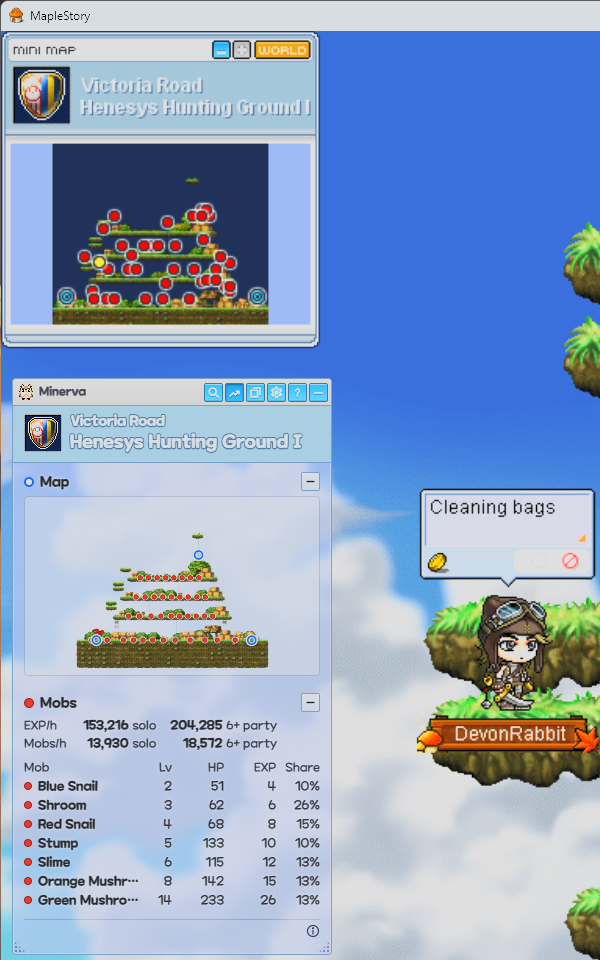
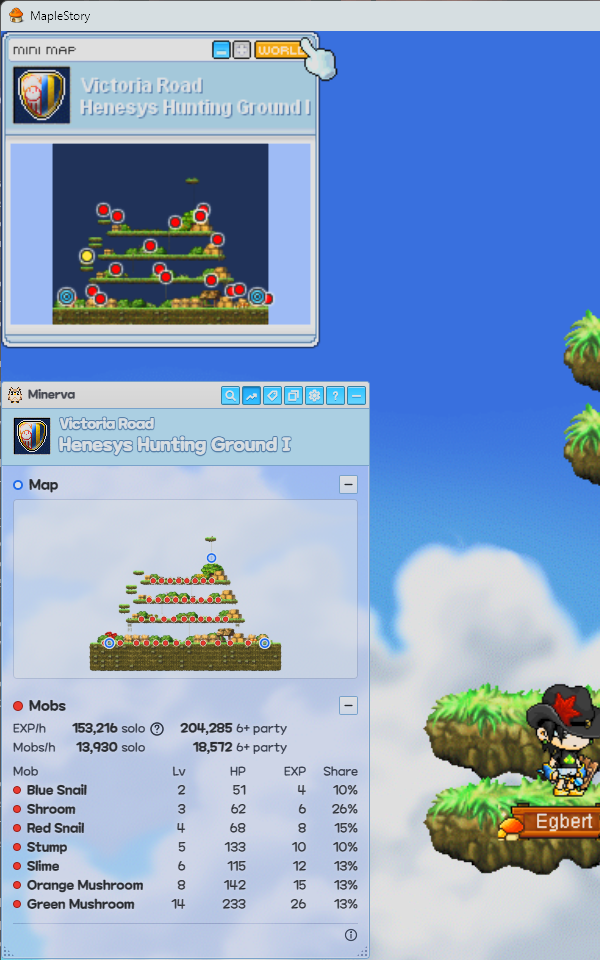
Retake the hero, game window, Mobs and Navigation shots on 0.11.0
The panel shows the Deal Finder's price tag and the solo EXP/h help icon.
The panel sits 11 px left and 3 px lower in the new game window, so the
hero film's landing box moves with it. The Grind Tracker and Item Card
shots stay on 0.10.0 and remain under Retake.

diff --git a/site/index.html b/site/index.html
@@ -101,7 +101,7 @@
               <img
                 id="hero-shot"
                 src="./screenshots/hero.png"
-                alt="MapleStory's minimap on Victoria Road, Henesys Hunting Ground I, and under it the Minerva panel naming the same map beside Henesys's shield, its Map Mark: its picture with every portal ringed and every spawn point dotted red, then the map's EXP and mobs per hour and all seven of its mobs."
+                alt="MapleStory's minimap on Victoria Road, Henesys Hunting Ground I, and under it the Minerva panel naming the same map beside Henesys's shield, its Map Mark: its picture with every portal ringed and every spawn point dotted red, then the map's EXP and mobs per hour, a help icon beside the solo figure, and all seven of its mobs."
                 fetchpriority="high"
               />
               <figcaption>The minimap's title, and the panel under it showing that map.</figcaption>
@@ -150,7 +150,7 @@
             <figure class="shot stage">
               <img
                 src="./screenshots/navigation.png"
-                alt="The Map section with the next portal on the route ringed in magenta, and Navigation to Ribbon Pigs on Forest West of Henesys: Tier, Density, Share and Distance, and the route from A Hill West of Henesys to Forest West of Henesys, each map with its Map Mark."
+                alt="The Map section with the next portal on the route ringed in magenta, and Navigation to Ribbon Pigs on The Hill East of Henesys: Tier, Density, Share and Distance, and the route from Henesys Hunting Ground I through Henesys to The Hill East of Henesys, each map with its Map Mark."
                 loading="lazy"
                 decoding="async"
               />
@@ -308,7 +308,7 @@
               <img
                 src="./screenshots/game-window.png"
                 sizes="(max-width: 640px) calc(100vw - 36px), 608px"
-                alt="MapleStory on Henesys Hunting Ground I, with the Minerva panel inside the game window, dragged under the minimap: the map's picture, its EXP and mobs per hour and all seven of its mobs."
+                alt="MapleStory on Henesys Hunting Ground I, with the Minerva panel inside the game window, dragged under the minimap: the map's picture, its EXP and mobs per hour and all seven of its mobs, with the Grind Tracker under it."
                 loading="lazy"
                 decoding="async"
               />

diff --git a/site/reel.ts b/site/reel.ts
@@ -17,7 +17,7 @@ const HERO: Rect = { x: 0, y: 0, w: 600, h: 960 };
 /** The box marked around the minimap title's two lines, with a little of its blue panel. */
 const MARK: Rect = { x: 70, y: 68, w: 248, h: 58 };
 /** The panel's title panel, under the minimap, where the read lands: beside its Map Mark. */
-const TITLE: Rect = { x: 60, y: 406, w: 290, h: 56 };
+const TITLE: Rect = { x: 49, y: 409, w: 290, h: 56 };
 /** Close on the minimap's title, with the panel's under it, in the hero's shape. */
 const CLOSE: Rect = { x: 0, y: 28, w: 360, h: (360 * HERO.h) / HERO.w };
 /** What the minimap's title says. */

diff --git a/site/screenshots/README.md b/site/screenshots/README.md
@@ -14,11 +14,11 @@ The pictures on the Minerva site, taken by hand in the game. The site's build fa
 
 | File | What it shows | Size | Taken on |
 | --- | --- | --- | --- |
-| `hero.png` | The minimap on a hunting map (Henesys Hunting Ground I) and the panel under it naming the same map beside its Map Mark, down through its Map (its spawn points dotted) and Mobs sections to the panel's foot, with a strip of the game beside it. Also the picture links to the site show (Discord, Reddit). | 600×960, the game window's top-left corner, its title bar included | 0.10.0 |
-| `game-window.png` | The game on the same map, with the panel inside the game window under the minimap showing its Map and Mobs sections, every spawn point dotted and every mob listed. Also the hero's film, which marks and reads the minimap's title and drops the read into the panel's title: a retake that moves either title, or changes the map, means setting where they are and what the title says at the top of `site/reel.ts`. | 1922×1232, the whole window | 0.10.0 |
+| `hero.png` | The minimap on a hunting map (Henesys Hunting Ground I) and the panel under it naming the same map beside its Map Mark, down through its Map (its spawn points dotted) and Mobs sections to the panel's foot, with a strip of the game beside it. Also the picture links to the site show (Discord, Reddit). | 600×960, the game window's top-left corner, its title bar included | 0.11.0 |
+| `game-window.png` | The game on the same map, with the panel inside the game window under the minimap showing its Map and Mobs sections, every spawn point dotted and every mob listed, and the Grind Tracker under it. Also the hero's film, which marks and reads the minimap's title and drops the read into the panel's title: a retake that moves either title, or changes the map, means setting where they are and what the title says at the top of `site/reel.ts`. | 1922×1232, the whole window | 0.11.0 |
 | `map.png` | The Map section on a map with a Hidden Portal, every spawn point dotted: the pointer resting on the Hidden Portal's row, its dashed ring lit, and the card under it opened on the close-up of the portal's spot, with its destination's Map Mark. | 320×410, the panel's Map section and the card | 0.10.0 |
-| `mobs.png` | The panel on the hero's hunting map (Henesys Hunting Ground I), the pointer on a mob's name (Green Mushroom): its row lit, its spawn points ringed on the Map Preview, and its Mob Card over the list. | 320×577, the whole panel | 0.10.0 |
-| `navigation.png` | The Map section with the next portal's magenta ring and every spawn point dotted, and Navigation with a Hunting Target: the mob, the figures, and the route from the map you're on, each map with its Map Mark. | 320×532, the panel down through its Navigation section | 0.10.0 |
+| `mobs.png` | The panel on the hero's hunting map (Henesys Hunting Ground I), the pointer on a mob's name (Green Mushroom): its row lit, its spawn points ringed on the Map Preview, and its Mob Card over the list. | 369×578, the whole panel | 0.11.0 |
+| `navigation.png` | The Map section with the next portal's magenta ring and every spawn point dotted, and Navigation with a Hunting Target: the mob, the figures, and the route from the map you're on, each map with its Map Mark. | 349×510, the panel from its title down through its Navigation section | 0.11.0 |
 | `grind-tracker.png` | The Grind Tracker: Time to Level, the rates, a Best row, the Pace Trace under them, and the EXP gauge at its foot with its forecast. | 280×261, the Grind Tracker's window | 0.10.0 |
 | `item-card.png` | An Item Card at the pointer over the inventory (Claw Attack Scroll: Intermediate): its window bar, the item's picture beside its name, Shop pays, Your price under Market, and the credit's info icon at its foot, with the game's tooltip under it. | 475×400, the inventory, the card and the tooltip | 0.10.0 |
 | `item-lookup.png` | An item's tooltip in the inventory, and the Item Lookup alert above it saying the page it opened. | 611×742, the inventory, the tooltip and the alert | 0.7.0 |
@@ -28,9 +28,6 @@ The pictures on the Minerva site, taken by hand in the game. The site's build fa
 
 When a change alters something a shot shows, the PR that makes it lists the shot here, with what changed. At release, the smoke test retakes every shot listed (`docs/releasing.md`) and empties the list.
 
-- `hero.png`, `game-window.png`, `mobs.png`, `navigation.png`: the Mobs summary has a ? help icon beside its solo EXP/h figure, explaining the calculation. Retake with the summary visible where the shot shows it.
 - `grind-tracker.png`: the solo EXP/h comparison has a ? help icon explaining the calculation. Update its alt text in `site/index.html` to say so.
-
 - `item-card.png`: each line under Market now has the Deal Line's ring before its name, filled on the Deal Line (Your price). Update its alt text in `site/index.html` to say so.
-- `hero.png`, `game-window.png`, `mobs.png`, `navigation.png`: the panel's window bar has the Deal Finder's price tag after the Grind Tracker's button. (`hero.png` is cut from `game-window.png`, and `site/reel.ts` ends on that corner, so retake them together.)
 - `grind-tracker.png`: the EXP bar's reading at its foot has the character playing beside it, by the name and level the status bar shows ("Egbert · Lv. 13"). Update its alt text in `site/index.html` to say so.
